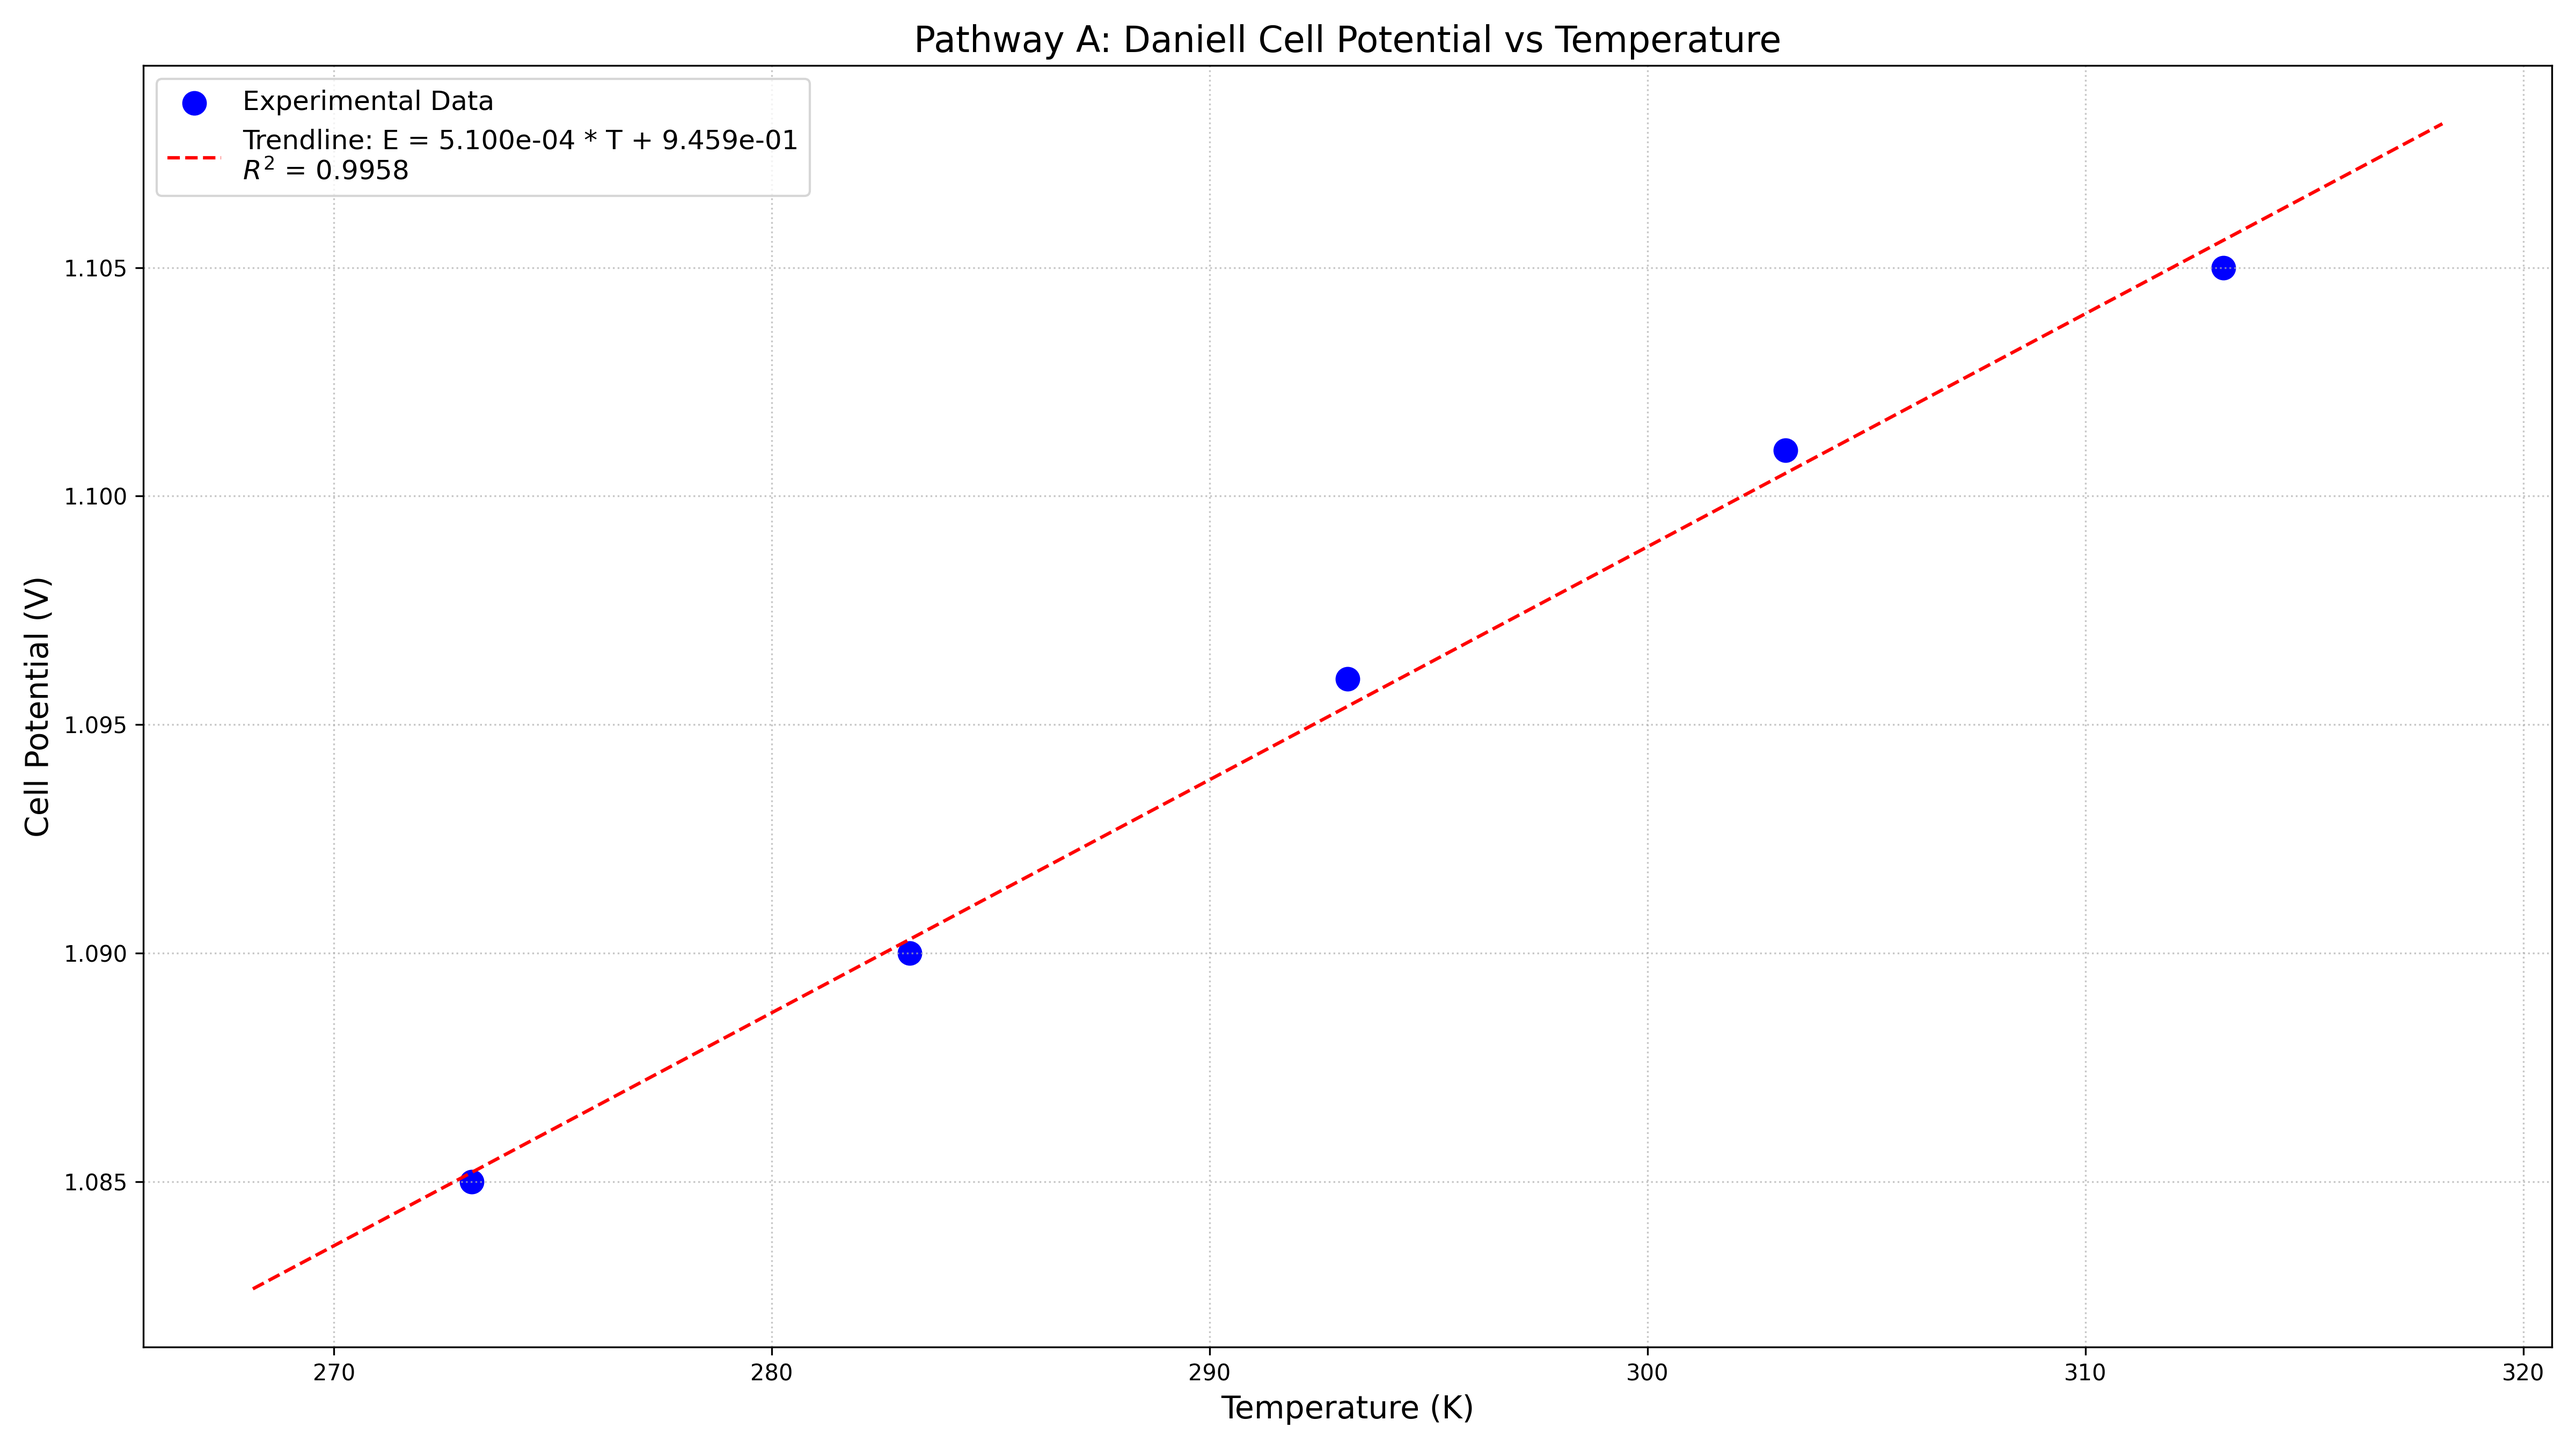
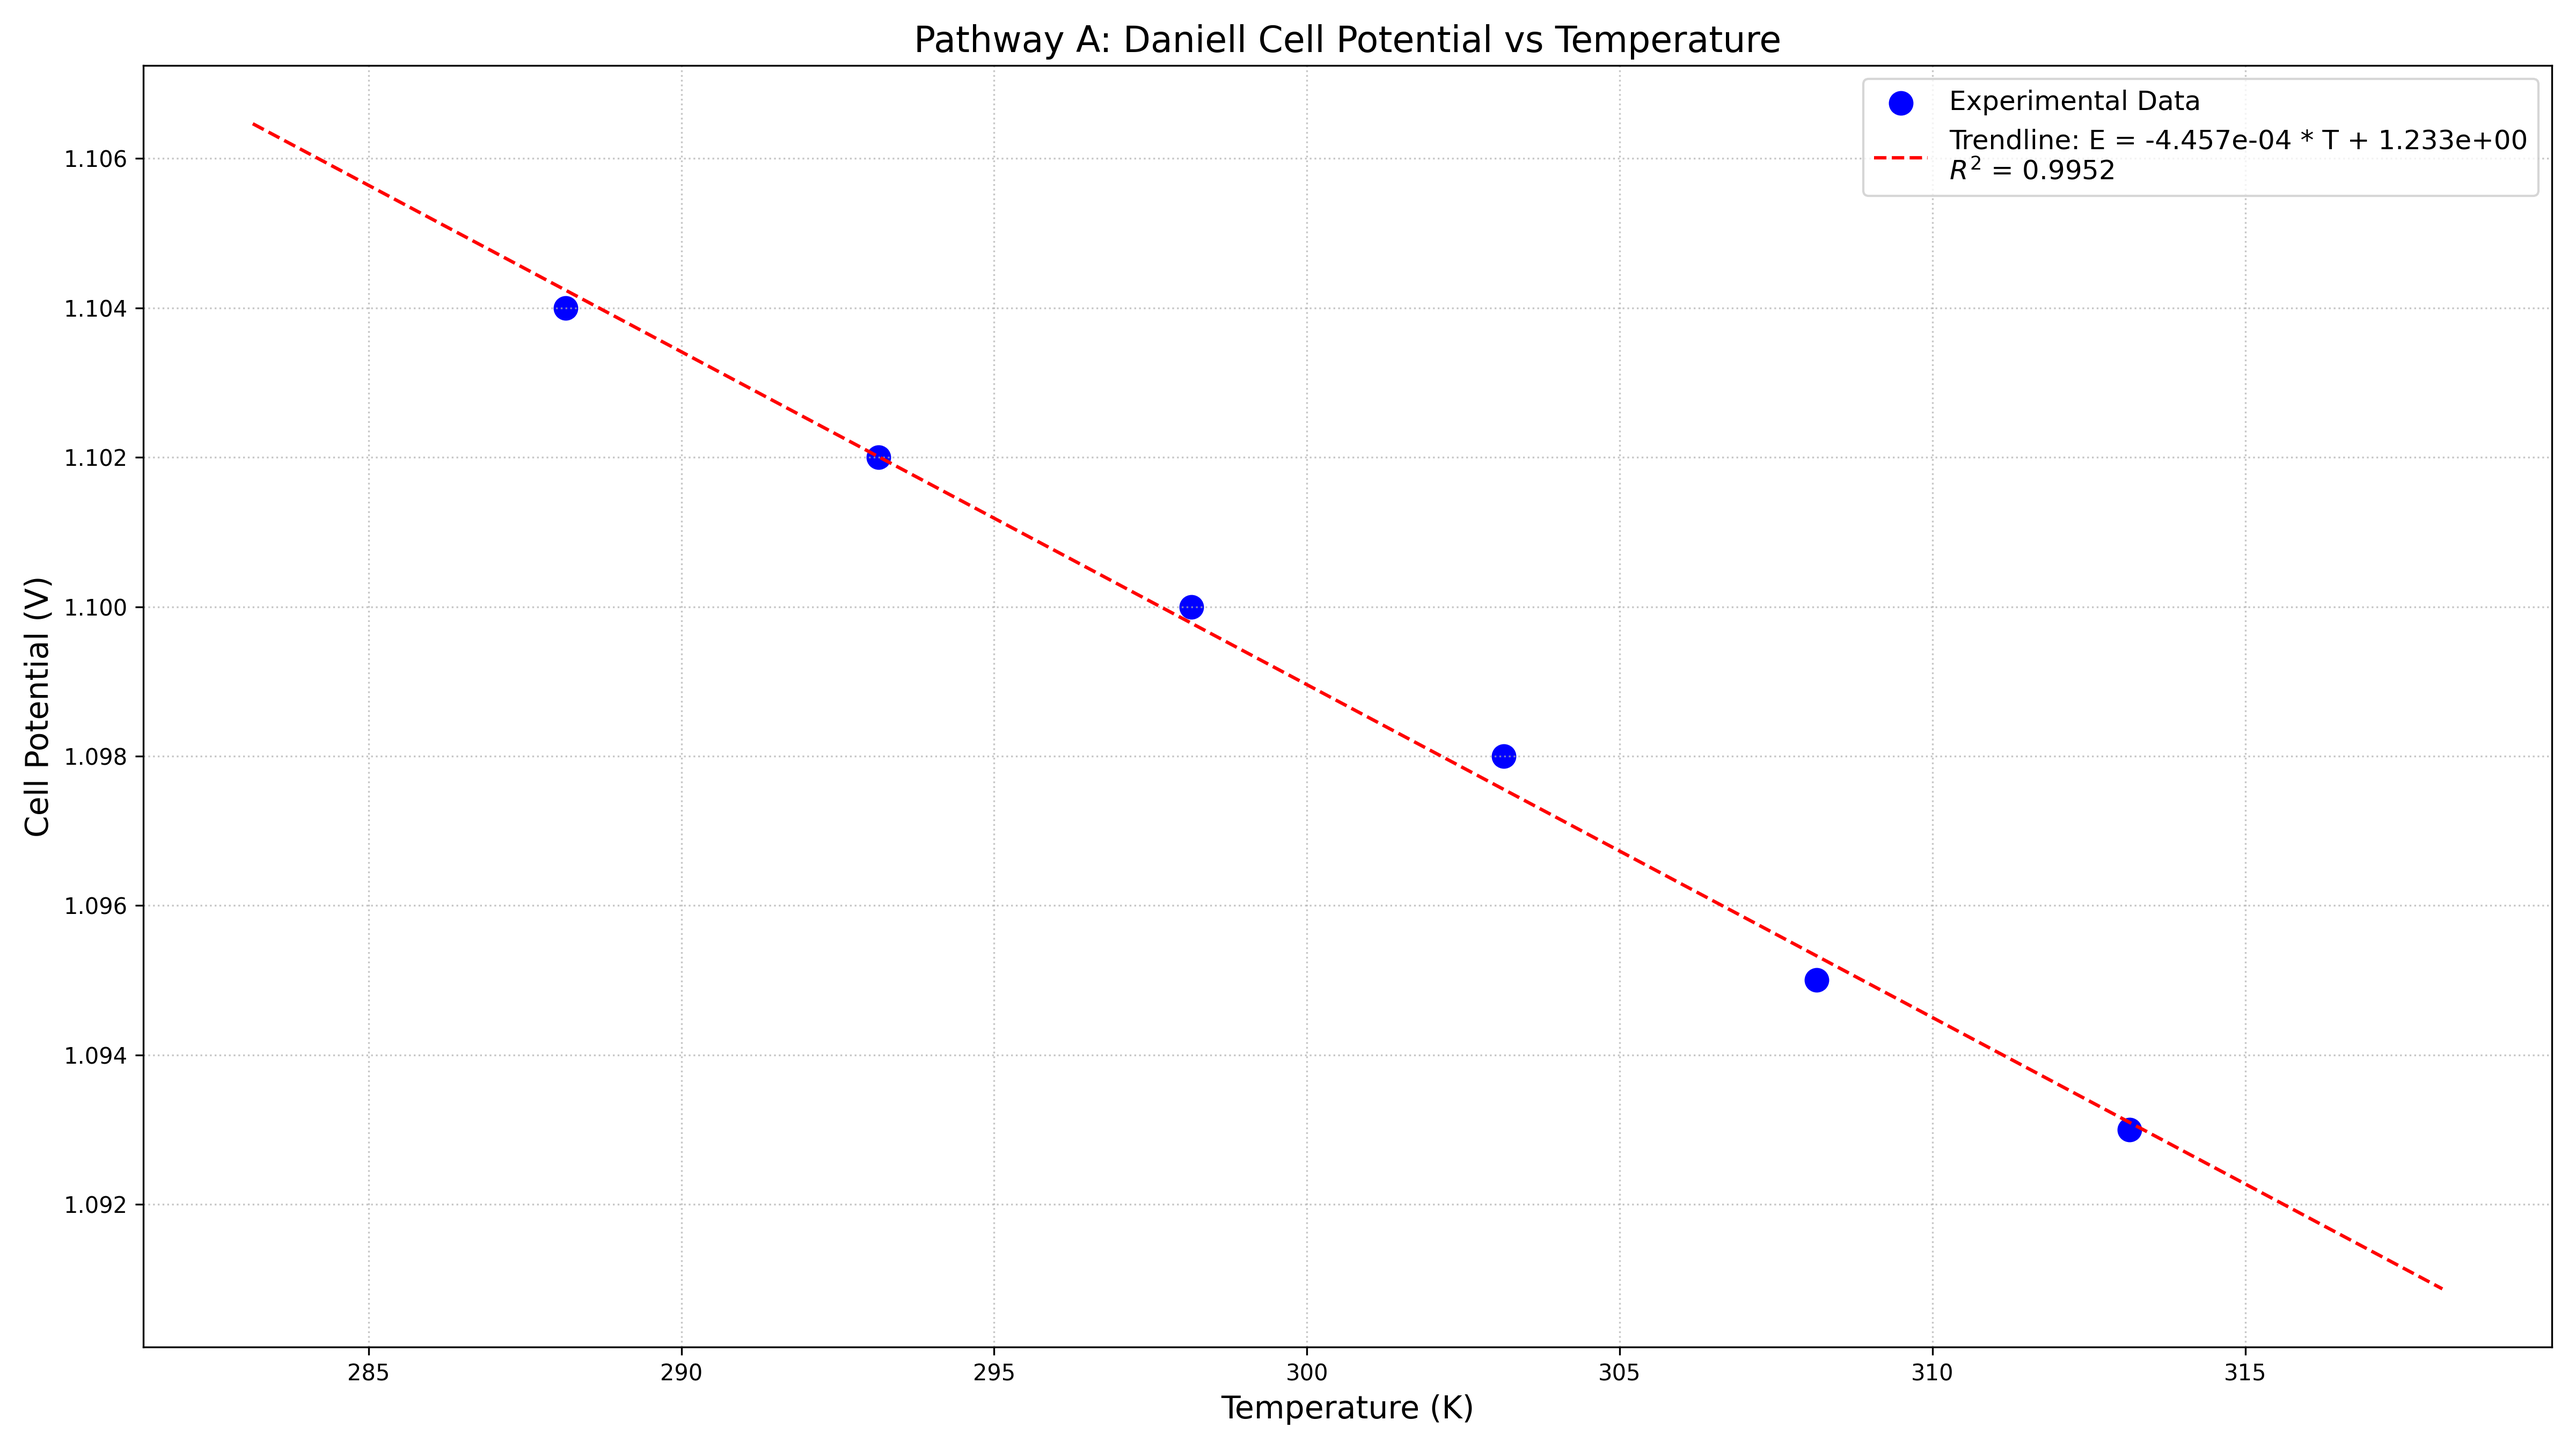
Update Daniell potential plot.

diff --git a/app.py b/app.py
@@ -118,7 +118,7 @@ def main():
     
     # 2. Watchdog Test (Bad Data)
     print("\n--- PATHWAY A (POTENTIOMETRY) - BAD DATA TEST ---")
-    E_bad_V = np.array([1.100, 1.050, 1.090, 1.010, 1.105]) # Will trigger R² < 0.95
+    E_bad_V = np.array([1.100, 1.050, 1.090, 1.010, 1.105, 1.060]) # Will trigger R² < 0.95
     pathway_a_potentiometry(T_mock_K, E_bad_V, "Daniell_Bad")
     
     # 3. Pathway B (Calorimetry)
